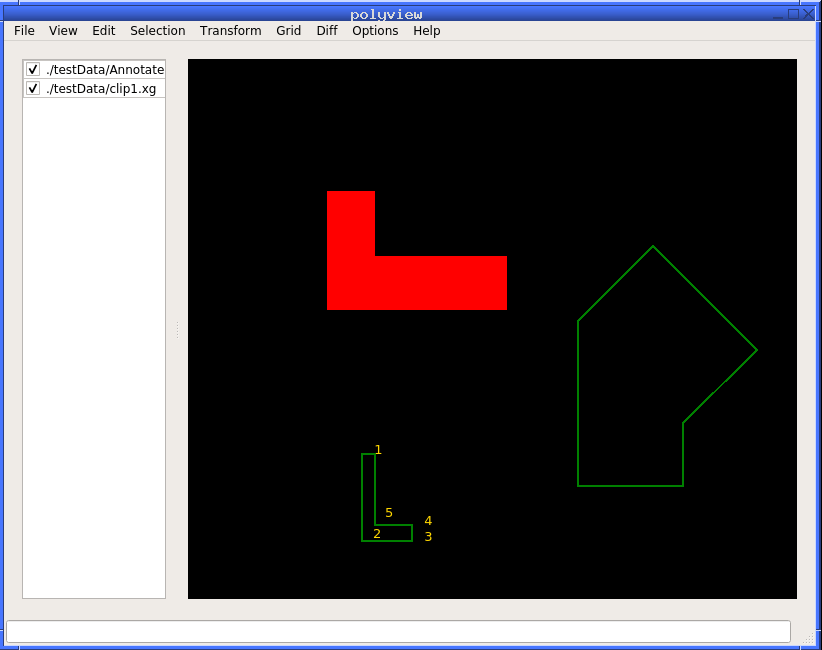
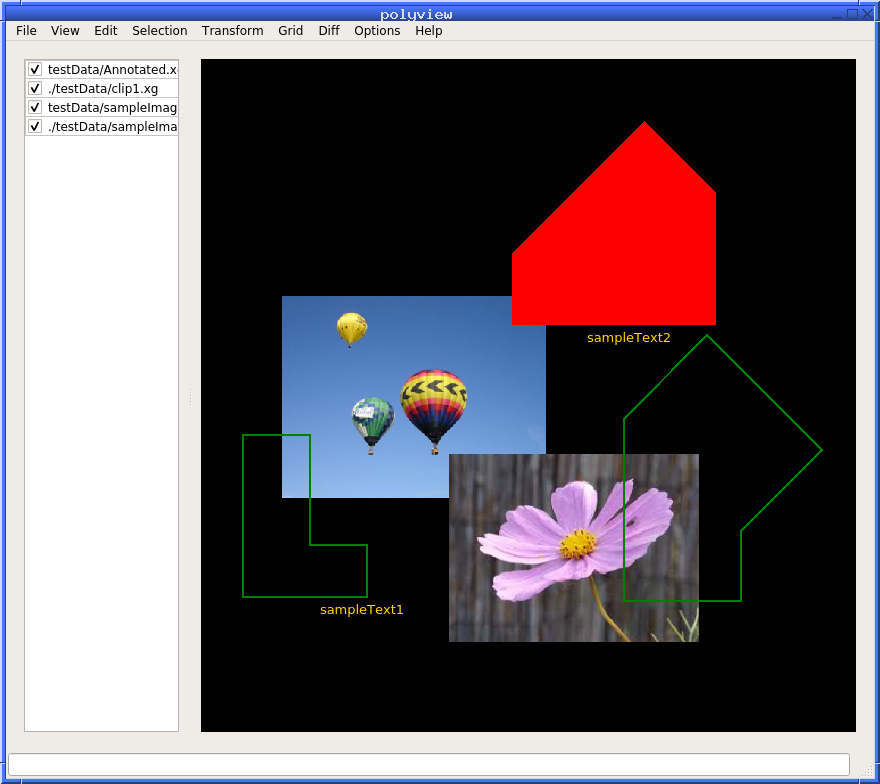
Add more test data and update the screenshot

diff --git a/Readme.md b/Readme.md
@@ -90,7 +90,7 @@ be improved in a collaborative manner.
 
 # Documentation
 
-## PolyView sample screenshot
+## PolyView sample screenshot showing overlayed polygons and images
 
 ![PolyView screenshot](images/polyview_screenshot.png)
 
